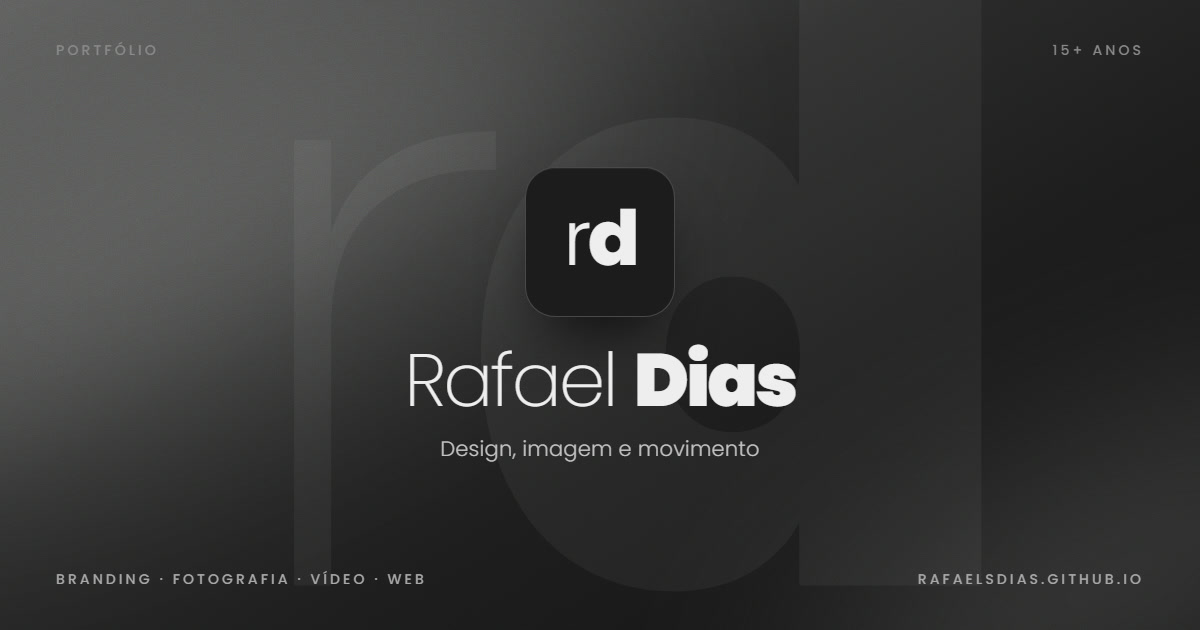
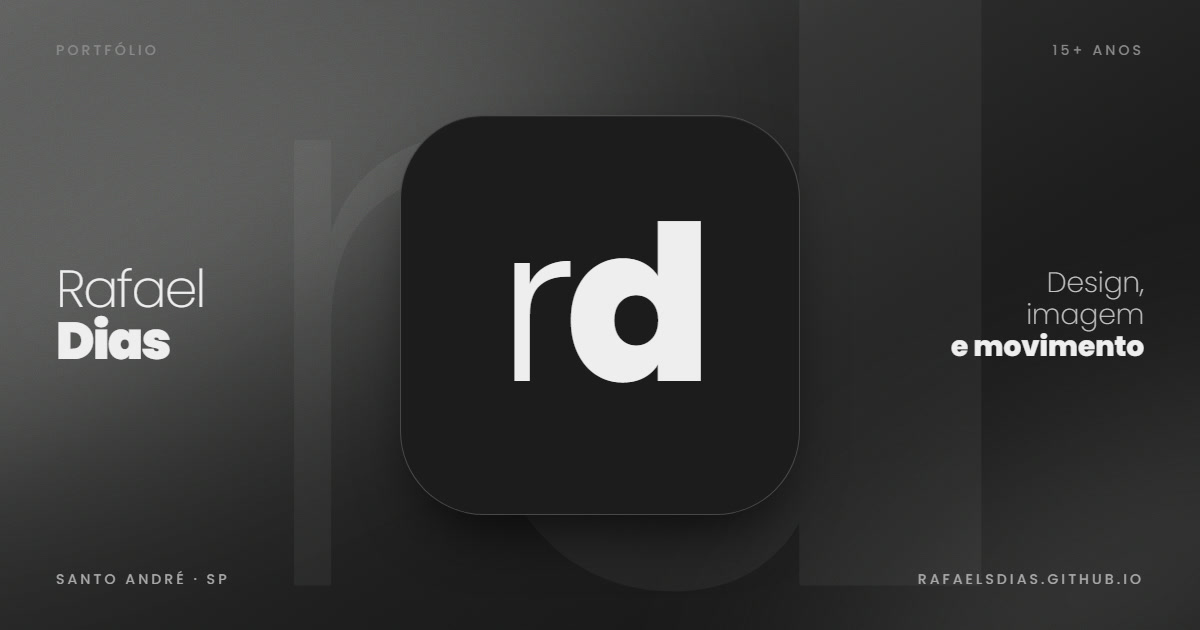
Imagem de compartilhamento: selo central legível na miniatura pequena

diff --git a/tools/og.html b/tools/og.html
@@ -20,13 +20,16 @@ body{position:relative;font-family:'Poppins',sans-serif;color:#eeeeee;
 .fantasma{position:absolute;left:50%;top:50%;transform:translate(-50%,-52%);font-size:820px;line-height:1;letter-spacing:-.06em;white-space:nowrap;color:#fff;opacity:.045;mix-blend-mode:screen}
 .fantasma span{font-weight:200}.fantasma b{font-weight:900}
 .centro{position:absolute;inset:0;display:flex;flex-direction:column;align-items:center;justify-content:center;gap:26px;text-align:center}
-.selo{width:150px;height:150px;border-radius:30px;background:#1c1c1c;border:1.5px solid rgba(238,238,238,.22);display:grid;place-items:center;
+.selo{width:400px;height:400px;border-radius:84px;background:#1c1c1c;border:1.5px solid rgba(238,238,238,.22);display:grid;place-items:center;
   box-shadow:0 30px 60px -20px rgba(0,0,0,.75), inset 0 1px 0 rgba(255,255,255,.06)}
-.selo div{font-size:76px;line-height:1;letter-spacing:-.04em;margin-top:-6px}
+.selo div{font-size:216px;line-height:1;letter-spacing:-.045em;margin-top:-18px}
 .selo span{font-weight:300}.selo b{font-weight:800}
-h1{font-size:74px;line-height:1;letter-spacing:-.035em;font-weight:200}
-h1 b{font-weight:900}
-.sub{font-size:21px;font-weight:300;letter-spacing:.01em;color:#c4c4c4;margin-top:-10px}
+.lado{position:absolute;top:50%;transform:translateY(-50%);width:230px}
+.esq{left:56px}.dir{right:56px;text-align:right}
+h1{font-size:52px;line-height:1;letter-spacing:-.035em;font-weight:200}
+h1 b{font-weight:900;display:block}
+.sub{font-size:28px;line-height:1.15;font-weight:200;color:#c4c4c4}
+.sub b{font-weight:700;color:#eeeeee;display:block}
 .rodape{position:absolute;left:56px;right:56px;bottom:40px;display:flex;justify-content:space-between;font-size:14px;letter-spacing:.22em;text-transform:uppercase;color:#a9a9a9;font-weight:500}
 .topo{position:absolute;left:56px;right:56px;top:40px;display:flex;justify-content:space-between;font-size:14px;letter-spacing:.22em;text-transform:uppercase;color:#8a8a8a;font-weight:500}
 </style>
@@ -36,11 +39,10 @@ h1 b{font-weight:900}
   <div class="fantasma"><span>r</span><b>d</b></div>
   <div class="grain"></div>
   <div class="topo"><span>Portfólio</span><span>15+ anos</span></div>
-  <div class="centro">
-    <div class="selo"><div><span>r</span><b>d</b></div></div>
-    <h1>Rafael <b>Dias</b></h1>
-    <p class="sub">Design, imagem e movimento</p>
-  </div>
-  <div class="rodape"><span>Branding · Fotografia · Vídeo · Web</span><span>rafaelsdias.github.io</span></div>
+  <!-- quadrado central (x 285–915): só o selo, é o que aparece na miniatura pequena -->
+  <div class="centro"><div class="selo"><div><span>r</span><b>d</b></div></div></div>
+  <div class="lado esq"><h1>Rafael<b>Dias</b></h1></div>
+  <div class="lado dir"><p class="sub">Design,<br>imagem<b>e movimento</b></p></div>
+  <div class="rodape"><span>Santo André · SP</span><span>rafaelsdias.github.io</span></div>
 </body>
 </html>

diff --git a/index.html b/index.html
@@ -11,7 +11,7 @@
 <meta property="og:url" content="https://rafaelsdias.github.io/">
 <meta property="og:site_name" content="Rafael Dias">
 <meta property="og:locale" content="pt_BR">
-<meta property="og:image" content="https://rafaelsdias.github.io/assets/img/og.jpg?v=2">
+<meta property="og:image" content="https://rafaelsdias.github.io/assets/img/og.jpg?v=3">
 <meta property="og:image:type" content="image/jpeg">
 <meta property="og:image:width" content="1200">
 <meta property="og:image:height" content="630">

diff --git a/projeto.html b/projeto.html
@@ -9,7 +9,7 @@
 <meta property="og:type" content="website">
 <meta property="og:site_name" content="Rafael Dias">
 <meta property="og:locale" content="pt_BR">
-<meta property="og:image" content="https://rafaelsdias.github.io/assets/img/og.jpg?v=2">
+<meta property="og:image" content="https://rafaelsdias.github.io/assets/img/og.jpg?v=3">
 <meta property="og:image:type" content="image/jpeg">
 <meta property="og:image:width" content="1200">
 <meta property="og:image:height" content="630">

diff --git a/sobre.html b/sobre.html
@@ -9,7 +9,7 @@
 <meta property="og:type" content="website">
 <meta property="og:site_name" content="Rafael Dias">
 <meta property="og:locale" content="pt_BR">
-<meta property="og:image" content="https://rafaelsdias.github.io/assets/img/og.jpg?v=2">
+<meta property="og:image" content="https://rafaelsdias.github.io/assets/img/og.jpg?v=3">
 <meta property="og:image:type" content="image/jpeg">
 <meta property="og:image:width" content="1200">
 <meta property="og:image:height" content="630">

diff --git a/trabalhos.html b/trabalhos.html
@@ -9,7 +9,7 @@
 <meta property="og:type" content="website">
 <meta property="og:site_name" content="Rafael Dias">
 <meta property="og:locale" content="pt_BR">
-<meta property="og:image" content="https://rafaelsdias.github.io/assets/img/og.jpg?v=2">
+<meta property="og:image" content="https://rafaelsdias.github.io/assets/img/og.jpg?v=3">
 <meta property="og:image:type" content="image/jpeg">
 <meta property="og:image:width" content="1200">
 <meta property="og:image:height" content="630">
